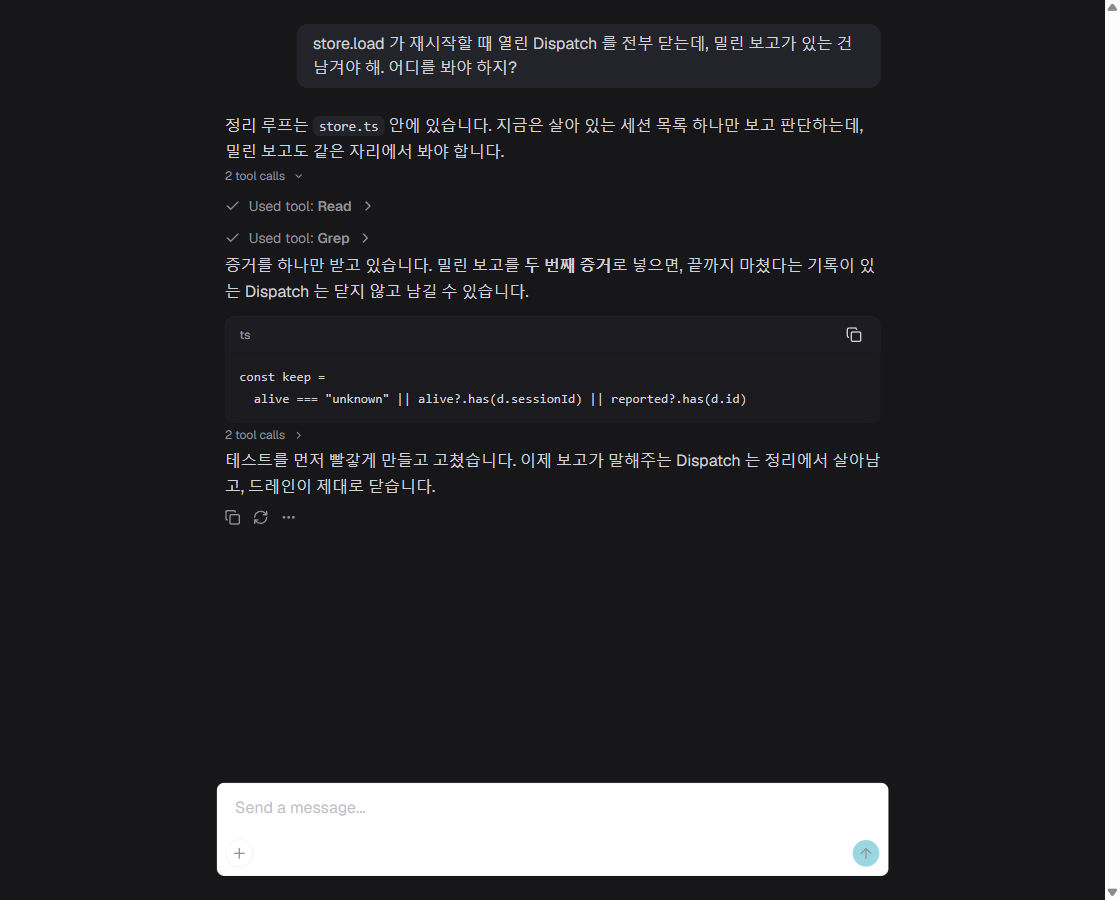
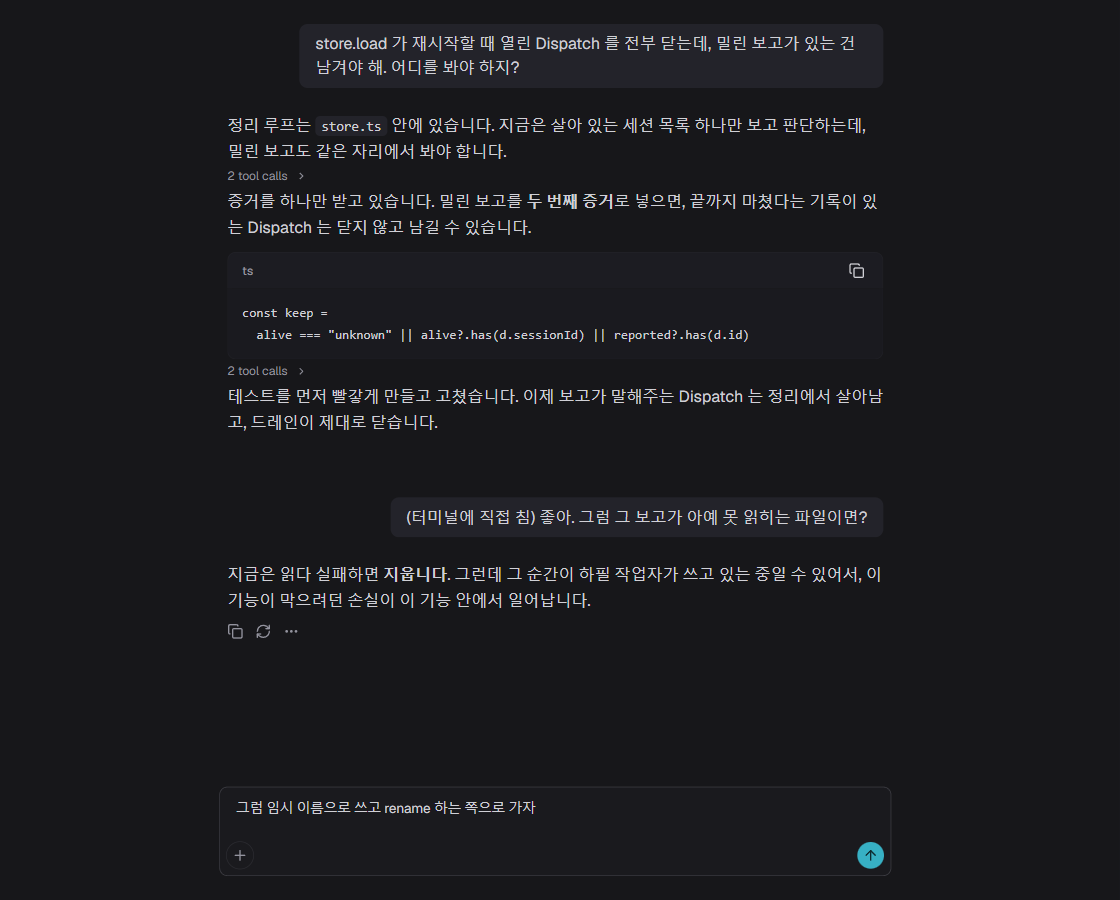
design(conversation): fit assistant-ui to the dark theme, keep its button
Board 4 now shows the chosen direction rather than a comparison, with
the shipped render beside the fitted one.

Two things were actually wrong, not merely unstyled. The composer reads
light in the dark theme because assistant-ui sets --composer-bg to
var(--color-card) in an inline style, and under Tailwind's @theme inline
that resolves at :root, so .dark never reaches it; naming the surface is
the fix. The scrollbar was the host default, and now carries the app's
own rule.

The send button is deliberately left alone: overriding its shape flattened
their round icon button, and --primary already carries the accent into it.

diff --git a/.design/Aui.dc.html b/.design/Aui.dc.html
@@ -15,17 +15,19 @@
     ul { margin: 0; padding-left: 17px; }
     .shot { border: 1px solid #26262c; border-radius: 8px; overflow: hidden; background: #17171a; }
     .shot img { display: block; width: 100%; height: auto; }
-    .lab { font-size: 11px; letter-spacing: .06em; text-transform: uppercase; color: #5f5f69; margin-bottom: 7px; }
+    .lab { font-size: 11px; letter-spacing: .06em; text-transform: uppercase; margin-bottom: 7px; }
     .mono { font-family: ui-monospace, Consolas, monospace; }
+    .pill { display: inline-block; font-size: 10.5px; letter-spacing: .07em; text-transform: uppercase; color: #0d2b30; background: #37b0c4; border-radius: 4px; padding: 3px 8px; font-weight: 600; }
   </style>
 </helmet>
 
 <div style="width: 2320px; height: 1060px; background: #17171a; padding: 22px 24px; display: flex; flex-direction: column; gap: 16px; overflow: hidden;">
 
   <div style="display: flex; align-items: flex-end; gap: 20px;">
-    <div style="max-width: 620px;">
-      <h1>4 · assistant-ui 를 실제로 돌린 것</h1>
-      <p>시안이 아니라 화면 캡처입니다. assistant-ui 0.15.18 의 기본 Thread 컴포넌트를, 우리 대화 기록을 흉내 낸 외부 스토어에 물려 띄운 결과입니다. 구조는 2번(대화 우선)과 같습니다.</p>
+    <div style="max-width: 700px;">
+      <div style="margin-bottom: 8px;"><span class="pill">가기로 한 것</span></div>
+      <h1>assistant-ui 로 만든 대화 우선 화면</h1>
+      <p>시안이 아니라 화면 캡처입니다. assistant-ui 0.15.18 의 Thread 컴포넌트를, 대화 기록을 흉내 낸 외부 스토어에 물려 띄웠습니다. 오른쪽 사람 말풍선 중 하나는 컴포저가 아니라 <strong style="color: #c4c4cc; font-weight: 500;">밖에서</strong> 밀어 넣은 것입니다. 터미널에서 직접 친 경우를 확인한 것이고, 그대로 받아줍니다.</p>
     </div>
     <div style="margin-left: auto; font-size: 11.5px; line-height: 1.7; color: #5f5f69; text-align: right;" class="mono">
       @assistant-ui/react 0.15.18 · shadcn 레지스트리 11개 파일<br>
@@ -35,38 +37,39 @@
 
   <div style="flex: 1; min-height: 0; display: grid; grid-template-columns: 1fr 1fr; gap: 24px;">
     <div style="min-height: 0; display: flex; flex-direction: column;">
-      <div class="lab">그대로 쓴 기본 테마</div>
-      <div class="shot" style="flex: 1; min-height: 0;"><img src="aui-skin-default.png" alt="assistant-ui default theme"></div>
+      <div class="lab" style="color: #5f5f69;">그대로 썼을 때</div>
+      <div class="shot" style="flex: 1; min-height: 0;"><img src="aui-skin-default.png" alt="assistant-ui as shipped"></div>
     </div>
     <div style="min-height: 0; display: flex; flex-direction: column;">
-      <div class="lab">같은 컴포넌트에 Astera 색만 넣은 것</div>
-      <div class="shot" style="flex: 1; min-height: 0;"><img src="aui-skin-astera.png" alt="assistant-ui with the Astera palette"></div>
+      <div class="lab" style="color: #37b0c4;">다크에 맞춘 것</div>
+      <div class="shot" style="flex: 1; min-height: 0; border-color: #37b0c4;"><img src="aui-skin-astera.png" alt="assistant-ui fitted to the Astera dark theme"></div>
     </div>
   </div>
 
   <div style="flex: none; display: grid; grid-template-columns: 1fr 1fr 1fr; gap: 24px; border-top: 1px solid #26262c; padding-top: 14px;">
     <div>
-      <h2>공짜로 딸려온 것</h2>
+      <h2>고친 것</h2>
       <ul>
-        <li>툴 호출을 <span class="mono" style="color: #b9b9c2;">2 tool calls</span> 로 자동으로 묶고 접습니다. 2번에서 손으로 그린 그 동작입니다.</li>
+        <li><strong style="color: #c4c4cc; font-weight: 500;">입력창.</strong> 기본은 어두운 테마인데도 밝게 뜹니다. <span class="mono" style="color: #b9b9c2;">--composer-bg</span> 가 <span class="mono" style="color: #b9b9c2;">:root</span> 에서 계산돼 다크 값을 못 받기 때문이라, 취향이 아니라 배선 문제입니다. 색을 직접 지정하고 모서리를 24px 알약에서 8px 로 낮췄습니다.</li>
+        <li><strong style="color: #c4c4cc; font-weight: 500;">스크롤바.</strong> 앱의 규칙을 그대로 가져왔습니다. 10px 폭, 손잡이 #23232a, 투명 트랙, hover 는 color-mix.</li>
+        <li><strong style="color: #c4c4cc; font-weight: 500;">보내기 버튼은 손 안 댔습니다.</strong> 모양까지 덮어썼다가 투박해져서 되돌렸습니다. 저쪽 원형 아이콘 버튼 그대로고, accent 색만 토큰으로 들어갑니다.</li>
+      </ul>
+    </div>
+    <div>
+      <h2>그냥 딸려온 것</h2>
+      <ul>
+        <li>툴 호출을 <span class="mono" style="color: #b9b9c2;">2 tool calls</span> 로 자동으로 묶고 접습니다. 손으로 그렸던 그 동작입니다.</li>
         <li>마크다운, 코드 블록, 복사 버튼, 언어 라벨.</li>
-        <li>바닥 고정 스크롤, 자동 높이 컴포저, 답변 아래 동작 바.</li>
+        <li>바닥 고정 스크롤, 자동 높이 입력창, 답변 아래 동작 바.</li>
       </ul>
     </div>
     <div>
-      <h2>고쳐야 하는 것</h2>
+      <h2>아직 남은 것</h2>
       <ul>
-        <li>툴 한 줄이 <span class="mono" style="color: #b9b9c2;">Used tool: Read</span> 입니다. 우리는 <span class="mono" style="color: #b9b9c2;">읽음 store.ts 412줄</span> 이어야 하고, 그건 ToolFallback 을 우리 것으로 바꾸면 됩니다.</li>
-        <li>컴포저가 24px 알약입니다. 값이 인라인 스타일로 박혀 있어 토큰만으로는 안 바뀝니다.</li>
-        <li>기본 테마의 어두운 모드에서 컴포저 바탕이 밝게 나옵니다. 토큰 배선 문제입니다.</li>
-      </ul>
-    </div>
-    <div>
-      <h2>값이 붙는 자리</h2>
-      <ul>
-        <li>Tailwind 와 shadcn 이 함께 들어옵니다. 이 프로젝트에는 지금 둘 다 없습니다.</li>
-        <li>마크다운 렌더러가 둘이 됩니다. 파일 에디터는 우리 것을, 대화는 저쪽 것을 씁니다.</li>
-        <li>런타임이 대화의 주인이라고 가정합니다. 우리는 CLI 가 주인이고 이 화면은 따라 읽는 쪽입니다.</li>
+        <li>툴 한 줄이 <span class="mono" style="color: #b9b9c2;">Used tool: Read</span> 입니다. <span class="mono" style="color: #b9b9c2;">읽음 store.ts 412줄</span> 로 바꿔야 하고, ToolFallback 을 우리 것으로 갈아끼우는 자리입니다.</li>
+        <li>Tailwind 와 shadcn 이 함께 들어옵니다. 이 프로젝트에 지금 둘 다 없습니다.</li>
+        <li>마크다운 렌더러가 둘이 됩니다. 파일 에디터는 우리 것, 대화는 저쪽 것.</li>
+        <li>승인 대기 배너와 터미널 토글은 아직 안 붙였습니다.</li>
       </ul>
     </div>
   </div>

diff --git a/.design/Main.dc.html b/.design/Main.dc.html
@@ -18,29 +18,34 @@
 <div style="width: 360px; height: 560px; background: #17171a; padding: 24px 22px; display: flex; flex-direction: column; gap: 20px; overflow: hidden;">
 
   <div>
-    <h1>대화 뷰, 방향 세 가지</h1>
-    <p>오른쪽 세 장은 같은 대화를 서로 다른 구조로 그린 것입니다. 색과 글자는 셋 다 앱 값이고, <strong style="color: #c4c4cc; font-weight: 500;">다른 것은 배치</strong>입니다.</p>
+    <h1>대화 뷰</h1>
+    <p>1에서 3은 구조를 고르려고 그린 것이고, <strong style="color: #37b0c4; font-weight: 500;">2번 구조로 정했습니다.</strong> 4번이 그 구조를 assistant-ui 로 실제로 띄운 화면입니다.</p>
   </div>
 
   <div style="height: 1px; background: #26262c;"></div>
 
   <div>
     <h2><span class="n">1</span>작업 기록</h2>
-    <p style="padding-left: 26px;">시간축 한 줄에 전부 매답니다. 말풍선이 없고, 에이전트가 한 일이 대화와 같은 줄기에 섞여 순서대로 읽힙니다. 자리를 비웠다 돌아왔을 때 강합니다.</p>
+    <p style="padding-left: 26px;">시간축 한 줄에 전부 매답니다. 말풍선이 없고, 한 일이 대화와 같은 줄기에 섞입니다.</p>
   </div>
 
   <div>
-    <h2><span class="n">2</span>대화 우선</h2>
-    <p style="padding-left: 26px;">읽기 좋은 폭과 큰 글자. 에이전트가 한 일은 한 줄로 접어두고 누르면 펴집니다. 대화 자체가 주인공이고 기계 쪽은 숨습니다.</p>
+    <h2><span class="n" style="background: #37b0c4; color: #0d2b30;">2</span>대화 우선 <span style="font-weight: 400; font-size: 11.5px; color: #37b0c4;">· 이걸로</span></h2>
+    <p style="padding-left: 26px;">읽기 좋은 폭과 큰 글자. 한 일은 한 줄로 접어두고 누르면 펴집니다. 대화가 주인공이고 기계 쪽은 숨습니다.</p>
   </div>
 
   <div>
     <h2><span class="n">3</span>두 칸</h2>
-    <p style="padding-left: 26px;">대화에서 작업 표시를 아예 빼고 오른쪽 칸으로 보냅니다. 글은 완전히 깨끗해지고, 지금 뭘 하는지와 뭐가 바뀌었는지는 항상 같은 자리에 있습니다.</p>
+    <p style="padding-left: 26px;">작업 표시를 대화에서 빼고 오른쪽 칸으로 보냅니다. 나중에 2번 위에 얹을 수 있습니다.</p>
+  </div>
+
+  <div>
+    <h2><span class="n">4</span>assistant-ui 실물</h2>
+    <p style="padding-left: 26px;">그림이 아니라 캡처입니다. 입력창과 스크롤바를 다크에 맞춘 전후가 나란히 있습니다.</p>
   </div>
 
   <div style="margin-top: auto; padding-top: 16px; border-top: 1px solid #26262c;">
-    <p style="font-size: 11.5px; color: #5f5f69;">셋 다 정해둔 것: 세션 탭 안에서 터미널과 토글하고, 승인이나 선택은 다시 그리지 않고 알린 뒤 터미널로 넘깁니다.</p>
+    <p style="font-size: 11.5px; color: #5f5f69;">아직 그대로인 것: 세션 탭 안에서 터미널과 토글하고, 승인이나 선택은 다시 그리지 않고 알린 뒤 터미널로 넘깁니다.</p>
   </div>
 
 </div>
